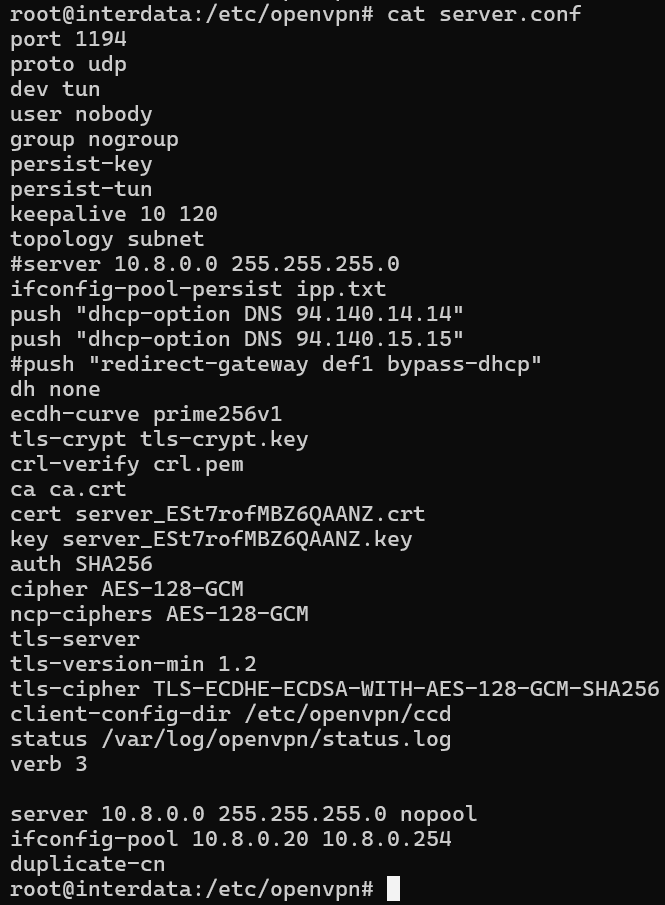
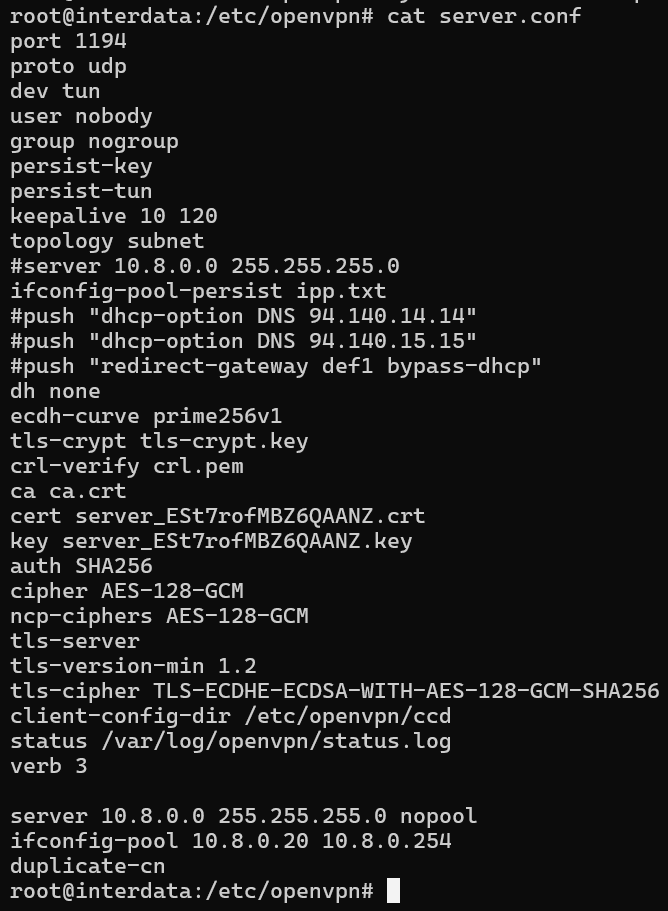
Update OPENVPN_SETUP.md

Changed region(s): [[0.0, 0.0, 0.9925, 1.0], [0.3308, 0.0, 0.6316, 0.0309], [0.6617, 0.0, 0.8722, 0.0309]]

diff --git a/OPENVPN_SETUP.md b/OPENVPN_SETUP.md
@@ -1,5 +1,7 @@
 # OpenVPN Setup
 
+## Setup & Creating profile
+
 On your VPS, download this convenient script from `angristan`: https://github.com/angristan/openvpn-install
 
 ![](.images/download-openvpn-install.png)
@@ -16,25 +18,29 @@ We will create first client with name `player` and press ENTER, it will then ask
 
 ![](.images/openvpn-create-first-client-passwordless.png)
 
-Just type ENTER (option 1 for passwordless) and we get the first configuration:
+Just type ENTER (option 1 for passwordless client) and we get the first configuration:
 
 ![](.images/openvpn-create-first-client-successful.png)
 
-This configuration will then be distribute to our player for accessing team machine. Now let's create 2 more configs for team 1 and team 2:
+This configuration will then be distribute to our player for accessing team machines. Now let's create 2 more configs for team 1 and team 2:
 
 ![](.images/openvpn-create-team1.png)
 
 ![](.images/openvpn-create-team2.png)
 
-So now we have team1 and team2 VPN configuration:
+Now we have team1 and team2 profiles:
 
 ![](.images/check-team1-team2-config.png)
 
-Wait, we have not done yet! We will need to config a few things before it is done! First, go to dir `/etc/openvpn/ccd`:
+Wait, we have not done yet! We will need to config a few things before it is done!
+
+## Assigning static IP
+
+Let's go to `/etc/openvpn/ccd`:
 
 ![](.images/list-etc-openvpn-ccd.png)
 
-In here, we will create 2 files called `team1` and `team2` with the content as following (name of file has to match name of VPN client, if you create file with different name, the static ip will not be assigned):
+In here, we will create 2 files called `team1` and `team2` with the content as following (name of file has to match name of VPN profile, if you create file with different name, the static ip will not be assigned):
 
 team1:
 ```
@@ -50,11 +56,14 @@ Let's check those 2 files:
 
 ![](.images/check-openvpn-ccd.png)
 
+## Server configuration
+
 Now we will run these commands to config `server.conf` in `/etc/openvpn/server.conf`:
 
 ```bash
-sed -i 's/push "redirect-gateway def1 bypass-dhcp"/#push "redirect-gateway def1 bypass-dhcp"/g' /etc/openvpn/server.conf
 sed -i 's/server 10.8.0.0 255.255.255.0/#server 10.8.0.0 255.255.255.0/g' /etc/openvpn/server.conf
+sed -i 's/push "dhcp-option/#push "dhcp-option/g' /etc/openvpn/server.conf
+sed -i 's/push "redirect-gateway def1 bypass-dhcp"/#push "redirect-gateway def1 bypass-dhcp"/g' /etc/openvpn/server.conf
 echo '' >> /etc/openvpn/server.conf
 echo 'server 10.8.0.0 255.255.255.0 nopool' >> /etc/openvpn/server.conf
 echo 'ifconfig-pool 10.8.0.20 10.8.0.254' >> /etc/openvpn/server.conf
